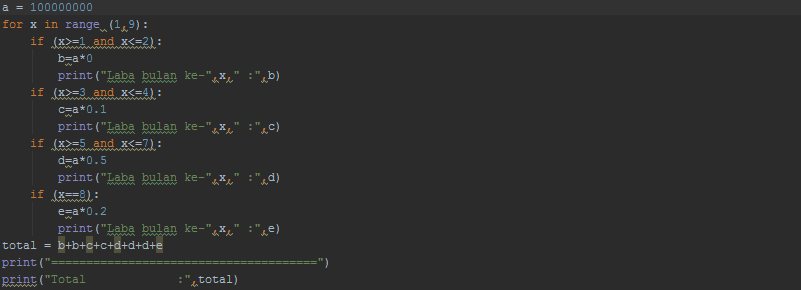
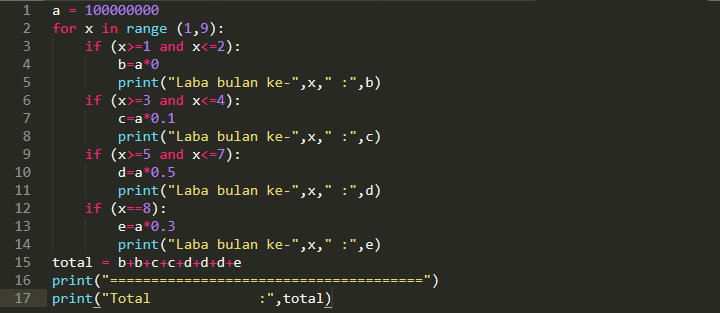
Program saya

diff --git a/program1.py b/program1.py
@@ -10,7 +10,7 @@ for x in range (1,9):
         d=a*0.5
         print("Laba bulan ke-",x," :",d)
     if (x==8):
-        e=a*0.2
+        e=a*0.3
         print("Laba bulan ke-",x," :",e)
 total = b+b+c+c+d+d+d+e
 print("======================================")

diff --git a/README.md b/README.md
@@ -53,3 +53,9 @@ yang dilakukan berdasarkan kondisi tertentu selama nilai kondisi bernilai TRUE.
 ![alt text](d.png)
 
 # ================Program 1================= #
+
+![alt text](e.png)
+
+## Hasil Eksekusi ##
+
+![alt text](f.png)
